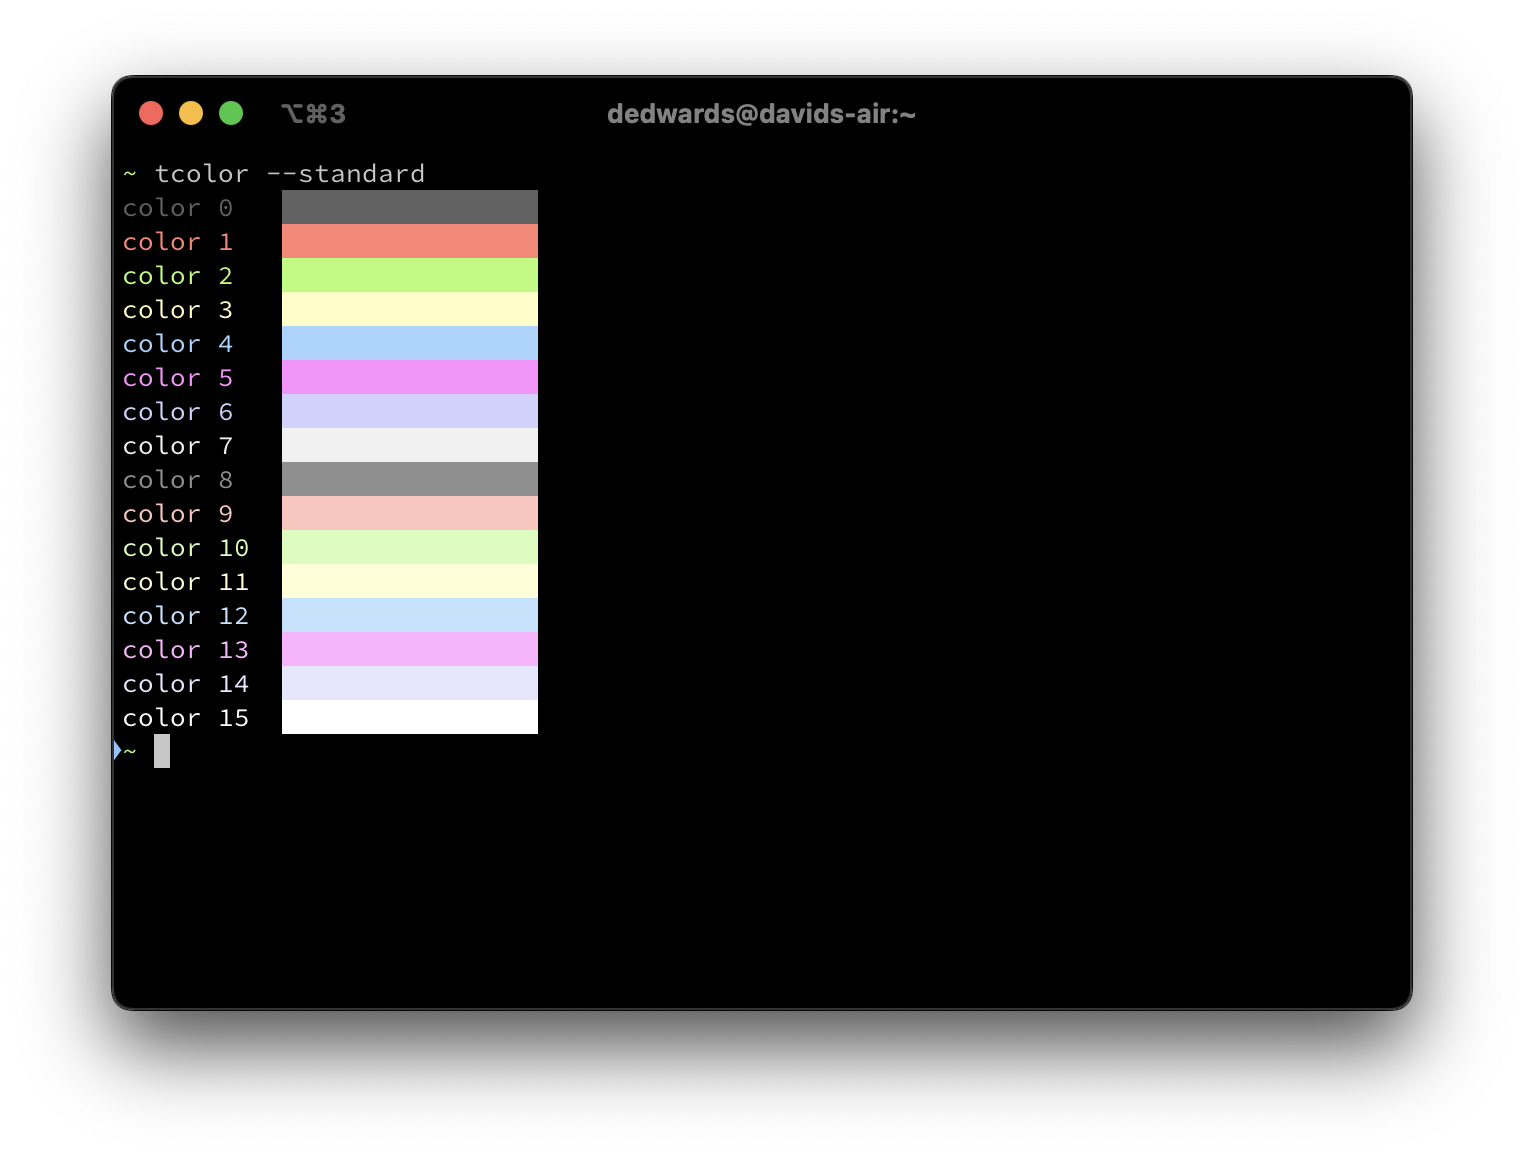
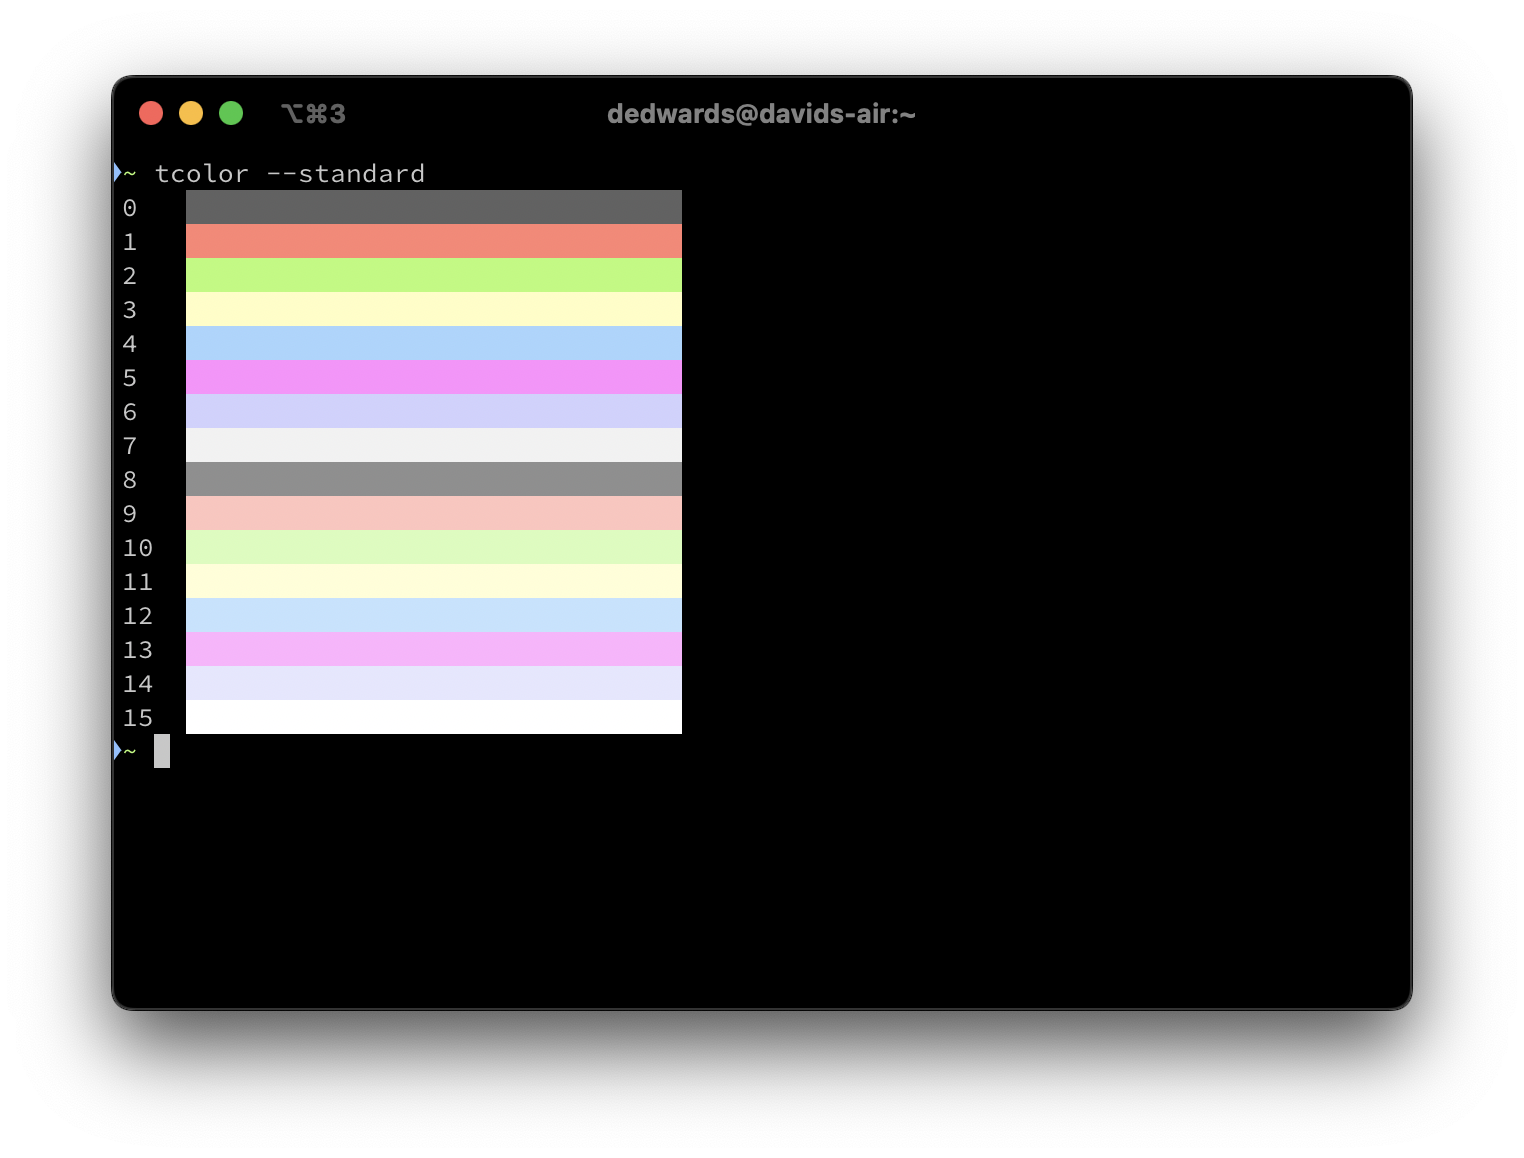
add option to show foreground and background colors blended

Changed region(s): [[0.3392, 0.1554, 0.4626, 0.6528], [0.0617, 0.1554, 0.185, 0.6528]]

diff --git a/src/main.rs b/src/main.rs
@@ -1,5 +1,3 @@
-//! # tcolor
-//!
 //! Displays ANSI colors on the terminal.
 //!
 //! Copyright 2024 David Edwards
@@ -21,11 +19,10 @@ mod opt;
 
 use crate::error::Result;
 use crate::opt::Options;
-
 use std::process::ExitCode;
 
 /// Usage documentation for display to terminal.
-const USAGE: &str = include_str!("usage.in");
+const USAGE: &str = include_str!("include/usage.in");
 
 // Version and build information.
 const PACKAGE_NAME: &str = env!("CARGO_PKG_NAME");
@@ -57,14 +54,20 @@ fn run() -> Result<()> {
 }
 
 fn run_opts(opts: &Options) {
-    const BLANKS: &str = "                ";
+    const BLANKS: &str = "                               ";
 
     if let Some(rgb) = opts.rgb {
         let (r, g, b) = rgb;
         println!(
-            "{}rgb {r},{g},{b} {}{BLANKS}{}",
-            ansi::set_fg_rgb(rgb),
+            "rgb({r},{g},{b}) {}{BLANKS}{}",
             ansi::set_bg_rgb(rgb),
+            ansi::reset(),
+        );
+    } else if let Some(blend) = opts.blend {
+        let (fg, bg) = blend;
+        println!(
+            "{}  foreground: {fg}, background: {bg}  {}",
+            ansi::set_color(fg, bg),
             ansi::reset()
         );
     } else {
@@ -75,11 +78,9 @@ fn run_opts(opts: &Options) {
         } else {
             0..=255
         };
-
         for color in colors {
             println!(
-                "{}color {color:<3} {}{BLANKS}{}",
-                ansi::set_fg(color),
+                "{color:<3} {}{BLANKS}{}",
                 ansi::set_bg(color),
                 ansi::reset()
             );

diff --git a/src/opt.rs b/src/opt.rs
@@ -23,6 +23,7 @@ pub struct Options {
     pub extended: bool,
     pub color: Option<u8>,
     pub rgb: Option<(u8, u8, u8)>,
+    pub blend: Option<(u8, u8)>,
 }
 
 impl Default for Options {
@@ -34,6 +35,7 @@ impl Default for Options {
             extended: true,
             color: None,
             rgb: None,
+            blend: None,
         }
     }
 }
@@ -58,6 +60,10 @@ impl Options {
                         parse_color(&arg, it.next())?,
                         parse_color(&arg, it.next())?,
                     ))
+                }
+                "--blend" | "-b" => {
+                    opts.blend =
+                        Some((parse_color(&arg, it.next())?, parse_color(&arg, it.next())?))
                 }
                 _ => return Err(Error::UnexpectedArg(arg)),
             };

diff --git a/src/ansi.rs b/src/ansi.rs
@@ -16,17 +16,12 @@
 
 const CSI: &str = "\x1b[";
 
-pub fn set_fg(color: u8) -> String {
-    format!("{CSI}38;5;{color}m")
+pub fn set_color(fg: u8, bg: u8) -> String {
+    format!("{CSI}38;5;{fg}m{CSI}48;5;{bg}m")
 }
 
 pub fn set_bg(color: u8) -> String {
     format!("{CSI}48;5;{color}m")
-}
-
-pub fn set_fg_rgb(rgb: (u8, u8, u8)) -> String {
-    let (r, g, b) = rgb;
-    format!("{CSI}38;2;{r};{g};{b}m")
 }
 
 pub fn set_bg_rgb(rgb: (u8, u8, u8)) -> String {

diff --git a/README.md b/README.md
@@ -18,6 +18,10 @@ Show RGB color.
 
 ![](content/tcolor-rgb.png)
 
+Show blended foreground and background 8-bit colors.
+
+![](content/tcolor-blend.png)
+
 ## Install
 
 ### Install from Homebrew
@@ -31,37 +35,15 @@ brew install tcolor
 
 Releases can be downloaded directly from [GitHub](https://github.com/davidledwards/tcolor/releases).
 
-Alternatively, using the [GitHub CLI](https://cli.github.com/), releases can also be downloaded from the command line. For example, to download version `0.1.0`, run the following command.
+Alternatively, using the [GitHub CLI](https://cli.github.com/), releases can also be downloaded from the command line. For example, to download version `0.2.0`, run the following command.
 
 ```shell
-gh release download --repo https://github.com/davidledwards/tcolor v0.1.0
+gh release download --repo https://github.com/davidledwards/tcolor v0.2.0
 ```
 
 ## Usage
 
 `tcolor` is quite simple. Use `--help` to print a description of all available options.
-
-## Build
-
-Install [Rust](https://www.rust-lang.org/tools/install) if not done so already.
-
-In the root directory of `tcolor`, run either of the folowing commands to build the project.
-
-```shell
-cargo build     # debug build
-cargo build -r  # release build
-```
-
-Running the program can be done via `cargo` or directly using the target executable.
-
-```shell
-cargo run [-r] -- [options to tcolor go here]
-```
-
-```shell
-target/debug/tcolor [options]
-target/release/tcolor [options]
-```
 
 ## Release
 
